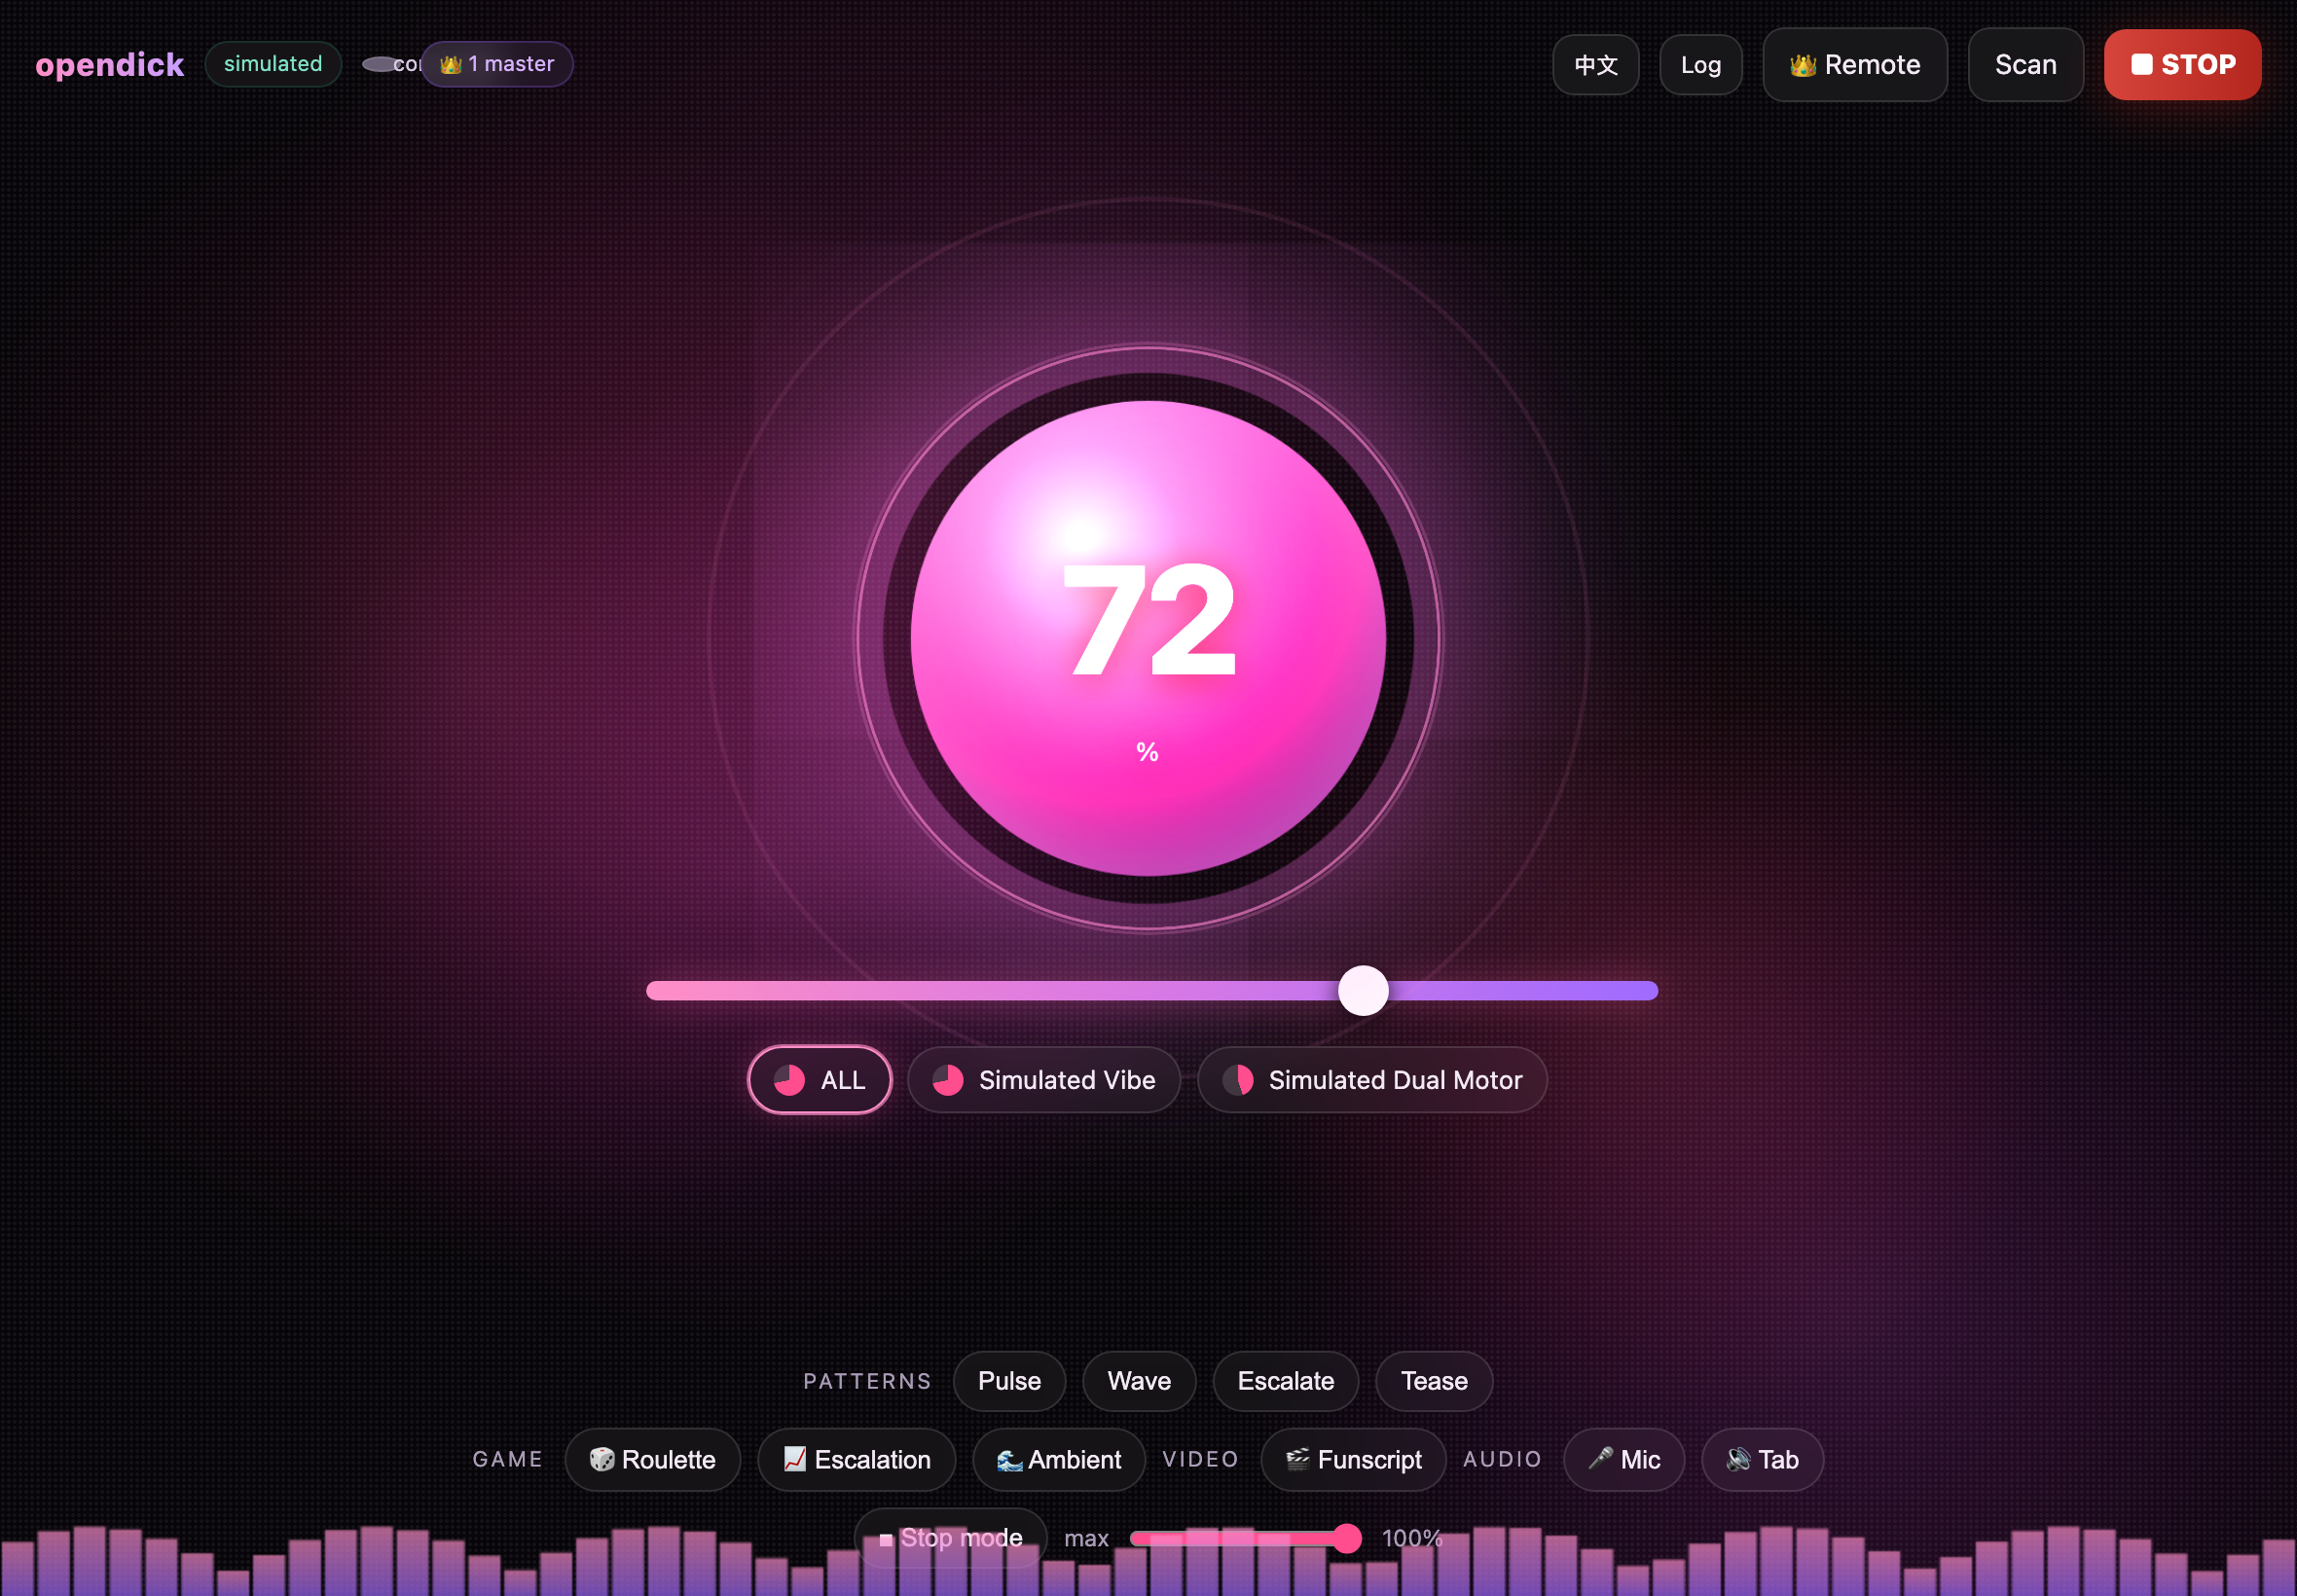
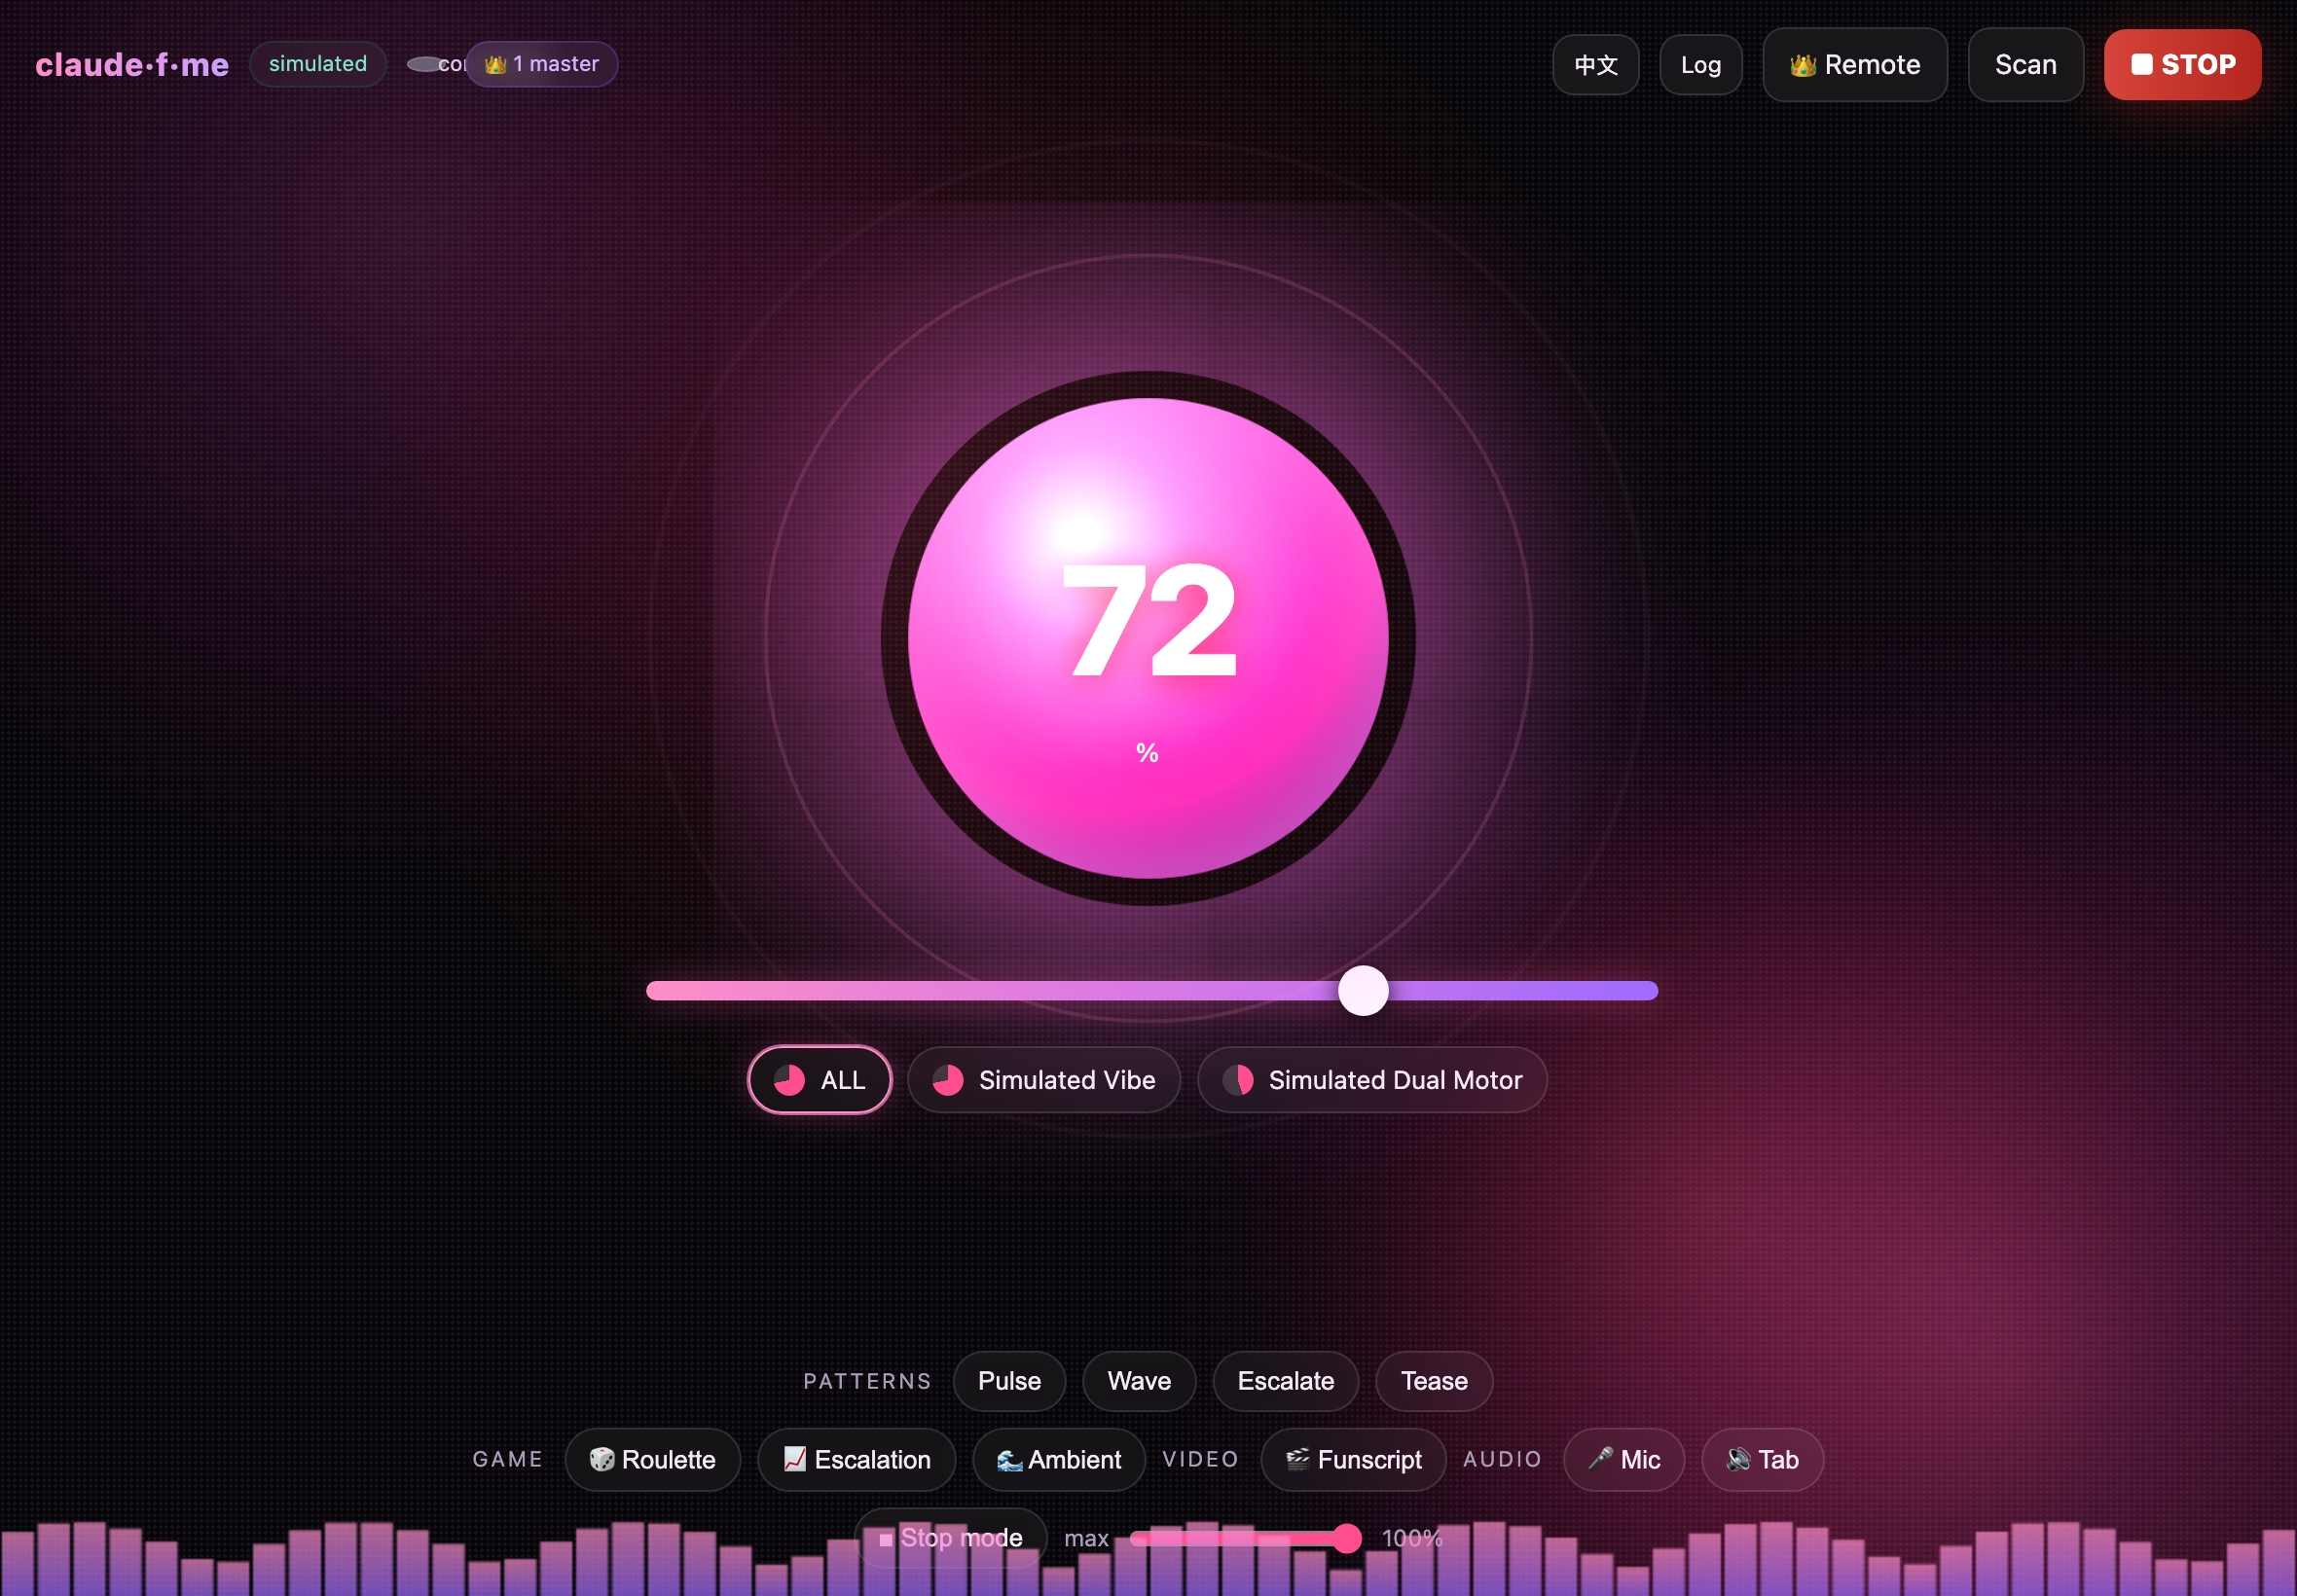
rebrand: opendick → claude-f-me
- plugin/MCP/console/master/commands/README all renamed to claude-f-me
- env vars OPENDICK_* → CFM_*, bundle → dist/claude-f-me.mjs
- repo/homepage point at mana-am/claude-f-me; refreshed screenshots

diff --git a/src/index.ts b/src/index.ts
@@ -21,10 +21,10 @@ if (!consoleOnly) {
   console.warn = toErr as typeof console.warn;
 }
 
-const mode = (process.env.OPENDICK_MODE ?? "simulated").toLowerCase();
-const port = Number(process.env.OPENDICK_CONSOLE_PORT ?? 8731);
-const maxIntensity = Number(process.env.OPENDICK_MAX_INTENSITY ?? 1);
-const intifaceUrl = process.env.OPENDICK_INTIFACE_URL ?? "ws://127.0.0.1:12345";
+const mode = (process.env.CFM_MODE ?? "simulated").toLowerCase();
+const port = Number(process.env.CFM_CONSOLE_PORT ?? 8731);
+const maxIntensity = Number(process.env.CFM_MAX_INTENSITY ?? 1);
+const intifaceUrl = process.env.CFM_INTIFACE_URL ?? "ws://127.0.0.1:12345";
 
 const backend: DeviceBackend =
   mode === "buttplug" ? new ButtplugBackend(intifaceUrl) : new SimulatedBackend();
@@ -47,10 +47,10 @@ try {
 await startConsole(manager, modes, port);
 
 if (consoleOnly) {
-  logErr(`opendick: console-only mode — open http://localhost:${port}`);
+  logErr(`claude-f-me: console-only mode — open http://localhost:${port}`);
 } else {
   await startMcp(manager, modes);
-  logErr(`opendick: ready (MCP stdio + console at http://localhost:${port})`);
+  logErr(`claude-f-me: ready (MCP stdio + console at http://localhost:${port})`);
 }
 
 // Best-effort: make sure hardware is left off on exit.

diff --git a/src/consoleHtml.ts b/src/consoleHtml.ts
@@ -7,7 +7,7 @@ export const CONSOLE_HTML = /* html */ `<!doctype html>
 <head>
 <meta charset="utf-8" />
 <meta name="viewport" content="width=device-width, initial-scale=1" />
-<title>opendick</title>
+<title>claude-f-me</title>
 <style>
   :root { color-scheme: dark; --lvl: 0; }
   * { box-sizing: border-box; }
@@ -106,7 +106,7 @@ export const CONSOLE_HTML = /* html */ `<!doctype html>
 <div class="grain"></div>
 <div class="wrap">
   <header>
-    <span class="brand">opendick</span>
+    <span class="brand">claude·f·me</span>
     <span id="mode" class="pill">…</span>
     <span class="pill dot"><span id="conn" class="dot"></span><span id="connlbl"></span></span>
     <span id="active" class="pill act" style="display:none"></span>
@@ -201,7 +201,7 @@ export const CONSOLE_HTML = /* html */ `<!doctype html>
       mastersOn:"👑 {n} 位主人", mastersOnN:"👑 {n} 位主人",
       needFs:"请先粘贴 funscript JSON。", audFail:"音频采集失败：", langBtn:"EN" }
   };
-  var lang = localStorage.getItem("opendick_lang") || ((navigator.language||"").indexOf("zh")===0 ? "zh" : "en");
+  var lang = localStorage.getItem("cfm_lang") || ((navigator.language||"").indexOf("zh")===0 ? "zh" : "en");
   function t(k){ return (I18N[lang] && I18N[lang][k]) || I18N.en[k] || k; }
   function applyI18n(){
     document.querySelectorAll("[data-i18n]").forEach(function(el){ el.textContent = t(el.getAttribute("data-i18n")); });
@@ -333,7 +333,7 @@ export const CONSOLE_HTML = /* html */ `<!doctype html>
   $("#scan").onclick = function(){ send({ type:"scan", ms:4000 }); };
   $("#stopall").onclick = function(){ stopAudio(); send({ type:"stop_all" }); };
   $("#remote").onclick = function(){ window.open("/master","_blank"); };
-  $("#lang").onclick = function(){ lang = (lang==="en"?"zh":"en"); localStorage.setItem("opendick_lang", lang); applyI18n(); };
+  $("#lang").onclick = function(){ lang = (lang==="en"?"zh":"en"); localStorage.setItem("cfm_lang", lang); applyI18n(); };
   $("#logbtn").onclick = function(){ $("#logdrawer").classList.toggle("open"); };
 
   var maxEl = $("#max");

diff --git a/src/masterHtml.ts b/src/masterHtml.ts
@@ -7,7 +7,7 @@ export const MASTER_HTML = /* html */ `<!doctype html>
 <head>
 <meta charset="utf-8" />
 <meta name="viewport" content="width=device-width, initial-scale=1, maximum-scale=1" />
-<title>opendick · master remote</title>
+<title>claude·f·me · master remote</title>
 <style>
   :root { color-scheme: dark; }
   * { box-sizing:border-box; -webkit-user-select:none; user-select:none; -webkit-tap-highlight-color:transparent; }
@@ -85,7 +85,7 @@ export const MASTER_HTML = /* html */ `<!doctype html>
       inControl:"控制中", connecting:"连接中…", reconnecting:"重连中…",
       noDev:"暂无设备", devN:"{n} 个设备", devNs:"{n} 个设备" }
   };
-  var lang = localStorage.getItem("opendick_lang") || ((navigator.language||"").indexOf("zh")===0 ? "zh" : "en");
+  var lang = localStorage.getItem("cfm_lang") || ((navigator.language||"").indexOf("zh")===0 ? "zh" : "en");
   function t(k){ return (I18N[lang] && I18N[lang][k]) || I18N.en[k] || k; }
   function applyI18n(){
     document.querySelectorAll("[data-i18n]").forEach(function(el){ el.textContent = t(el.getAttribute("data-i18n")); });
@@ -138,7 +138,7 @@ export const MASTER_HTML = /* html */ `<!doctype html>
   max.addEventListener("input", function(){ $("#maxval").textContent = Math.round(max.value*100)+"%"; send({ type:"set_max", value: parseFloat(max.value) }); });
 
   $("#stop").addEventListener("click", function(){ dial.value = 0; $("#lvl").textContent = "0"; send({ type:"stop_all" }); });
-  $("#lang").addEventListener("click", function(){ lang = (lang === "en" ? "zh" : "en"); localStorage.setItem("opendick_lang", lang); applyI18n(); });
+  $("#lang").addEventListener("click", function(){ lang = (lang === "en" ? "zh" : "en"); localStorage.setItem("cfm_lang", lang); applyI18n(); });
 
   applyI18n();
   $("#status").textContent = t("connecting");

diff --git a/src/device/buttplug.ts b/src/device/buttplug.ts
@@ -35,7 +35,7 @@ export class ButtplugBackend implements DeviceBackend {
       /* ignore */
     }
 
-    this.client = new bp.ButtplugClient("opendick");
+    this.client = new bp.ButtplugClient("claude-f-me");
     this.client.addListener("deviceadded", (d: any) => {
       this.devices.set(String(d.index), d);
       this.cb();

diff --git a/src/mcp.ts b/src/mcp.ts
@@ -10,7 +10,7 @@ const text = (obj: unknown) => ({
 });
 
 export async function startMcp(manager: DeviceManager, modes: ModeController): Promise<void> {
-  const server = new McpServer({ name: "opendick", version: "0.1.0" });
+  const server = new McpServer({ name: "claude-f-me", version: "0.1.0" });
 
   server.registerTool(
     "list_devices",

diff --git a/README.md b/README.md
@@ -1,6 +1,6 @@
 <div align="center">
 
-# opendick
+# claude-f-me
 
 **Control intimate hardware by *chatting* in Claude Code.**
 
@@ -15,7 +15,7 @@ conversation into real device control — backed by the open
 [![License: MIT](https://img.shields.io/badge/License-MIT-blue.svg)](./LICENSE)
 [![Node](https://img.shields.io/badge/node-%E2%89%A518-339933)](https://nodejs.org)
 
-<img src="./docs/console.png" alt="opendick console" width="720" />
+<img src="./docs/console.png" alt="claude-f-me console" width="720" />
 
 </div>
 
@@ -30,7 +30,7 @@ conversation into real device control — backed by the open
 
 ```
   ┌──────────────┐   MCP (stdio)    ┌───────────────────────────┐
-  │  Claude Code │ ───────────────► │          opendick         │
+  │  Claude Code │ ───────────────► │          claude-f-me         │
   └──────────────┘                  │  (one process)            │
   ┌──────────────┐   WebSocket      │   ┌─────────────────────┐ │
   │  Web console │ ◄──────────────► │   │   DeviceManager     │ │  safety cap · watchdog
@@ -69,10 +69,10 @@ so the chat and the dashboard always share the exact same device state.
 
 ```bash
 # 1. add this repo as a plugin marketplace
-/plugin marketplace add SimonAKing/opendick
+/plugin marketplace add mana-am/claude-f-me
 
 # 2. install the plugin
-/plugin install opendick@opendick
+/plugin install claude-f-me@claude-f-me
 ```
 
 The MCP server (a self-contained bundle, no `node_modules` needed) and the slash commands are
@@ -87,39 +87,39 @@ set the safety max to 60%
 stop everything
 ```
 
-The console comes up at **http://localhost:8731** — run `/opendick:console` to open it.
+The console comes up at **http://localhost:8731** — run `/claude-f-me:console` to open it.
 
 ### Slash commands
 
 | command | what it does |
 |---|---|
-| `/opendick:console` | open the live web console in your browser |
-| `/opendick:demo` | run a short scan → vibrate → pattern → game demo |
-| `/opendick:panic` | emergency stop — everything off, now |
+| `/claude-f-me:console` | open the live web console in your browser |
+| `/claude-f-me:demo` | run a short scan → vibrate → pattern → game demo |
+| `/claude-f-me:panic` | emergency stop — everything off, now |
 
 ## Connect a real device
 
-opendick is built for real hardware first; the simulator is just a preview.
+claude-f-me is built for real hardware first; the simulator is just a preview.
 
 1. Install and open **[Intiface Central](https://intiface.com)** → press **Start Server**
    (default `ws://127.0.0.1:12345`).
 2. Pair your toy in Intiface and confirm it appears (this verifies the hardware end-to-end).
    Lovense is the easiest to buy and best supported; almost anything on the
    [device list](https://iostindex.com) works.
-3. Set **`OPENDICK_MODE=buttplug`**. For the plugin, edit the `env` block in
+3. Set **`CFM_MODE=buttplug`**. For the plugin, edit the `env` block in
    [`.mcp.json`](./.mcp.json); standalone, export the env var before launching.
 
 > The plugin ships defaulting to `simulated` so it runs out of the box even before Intiface is
 > set up — flip it to `buttplug` once your device shows up in Intiface.
 >
-> Node 22+ ships a global `WebSocket`; on older Node, opendick polyfills it from `ws`,
+> Node 22+ ships a global `WebSocket`; on older Node, claude-f-me polyfills it from `ws`,
 > so real-hardware mode works on Node 18+.
 
 ### No hardware yet? Preview mode
 
 ```bash
-git clone https://github.com/SimonAKing/opendick
-cd opendick && npm install && npm run build
+git clone https://github.com/mana-am/claude-f-me
+cd claude-f-me && npm install && npm run build
 npm run console        # open http://localhost:8731
 ```
 
@@ -144,7 +144,7 @@ tunnel (e.g. `cloudflared tunnel --url http://localhost:8731` or `ngrok http 873
 
 ## 🎵 Audio mode
 
-In the console's **Audio** panel, pick **🎤 Microphone** or **🔊 Tab audio**. opendick reads the
+In the console's **Audio** panel, pick **🎤 Microphone** or **🔊 Tab audio**. claude-f-me reads the
 live signal in the browser, computes its loudness each frame, and drives the device in real time —
 so the toy pulses to music, a voice, or a video's soundtrack. The **sensitivity** slider scales
 it; the safety cap still applies.
@@ -173,10 +173,10 @@ it; the safety cap still applies.
 
 | env var | default | meaning |
 |---|---|---|
-| `OPENDICK_MODE` | `simulated` | `simulated` or `buttplug` |
-| `OPENDICK_CONSOLE_PORT` | `8731` | web console port (also serves `/master`) |
-| `OPENDICK_MAX_INTENSITY` | `1.0` | initial safety cap (0..1) |
-| `OPENDICK_INTIFACE_URL` | `ws://127.0.0.1:12345` | Intiface server (buttplug mode) |
+| `CFM_MODE` | `simulated` | `simulated` or `buttplug` |
+| `CFM_CONSOLE_PORT` | `8731` | web console port (also serves `/master`) |
+| `CFM_MAX_INTENSITY` | `1.0` | initial safety cap (0..1) |
+| `CFM_INTIFACE_URL` | `ws://127.0.0.1:12345` | Intiface server (buttplug mode) |
 
 ## Development
 
@@ -184,7 +184,7 @@ it; the safety cap still applies.
 npm run dev          # MCP + console, watch mode (tsx)
 npm run dev:console  # console only, watch mode
 npm run build        # type-check + emit dist/ (tsc)
-npm run bundle       # self-contained dist/opendick.mjs for the plugin (esbuild)
+npm run bundle       # self-contained dist/claude-f-me.mjs for the plugin (esbuild)
 ```
 
 ```
@@ -212,7 +212,7 @@ last line of defense:
 - Every `vibrate` arms an **auto-stop**; even with no `duration_ms` there's a hard 5-minute
   ceiling per command, and continuous drivers (patterns/video/game/audio) have a watchdog that
   stops the motor within seconds if their loop dies.
-- `emergency_stop` / `/opendick:panic` / the red console button / the master's STOP all halt
+- `emergency_stop` / `/claude-f-me:panic` / the red console button / the master's STOP all halt
   everything instantly.
 - Hardware is turned off when the process exits.
 

diff --git a/commands/console.md b/commands/console.md
@@ -1,8 +1,8 @@
 ---
-description: Open the opendick web console in your browser
+description: Open the claude-f-me web console in your browser
 allowed-tools: Bash
 ---
 
-Call the `list_devices` tool from the opendick MCP server and read its `consoleUrl`.
+Call the `list_devices` tool from the claude-f-me MCP server and read its `consoleUrl`.
 Then run `open <consoleUrl>` to launch it in the default browser, and print the URL
 to the user as a clickable markdown link. If `open` is unavailable, just print the link.

diff --git a/commands/demo.md b/commands/demo.md
@@ -1,8 +1,8 @@
 ---
-description: Run a short opendick demo on the simulated device
+description: Run a short claude-f-me demo on the simulated device
 ---
 
-Run a quick demo with the opendick MCP tools so the user can watch it in the console.
+Run a quick demo with the claude-f-me MCP tools so the user can watch it in the console.
 Keep narration to one short line per step:
 
 1. `scan_devices`

diff --git a/commands/panic.md b/commands/panic.md
@@ -2,5 +2,5 @@
 description: Emergency stop — turn every device off immediately
 ---
 
-Immediately call the `emergency_stop` tool from the opendick MCP server.
+Immediately call the `emergency_stop` tool from the claude-f-me MCP server.
 Do not ask for confirmation. Confirm to the user in one line that all devices and modes are stopped.